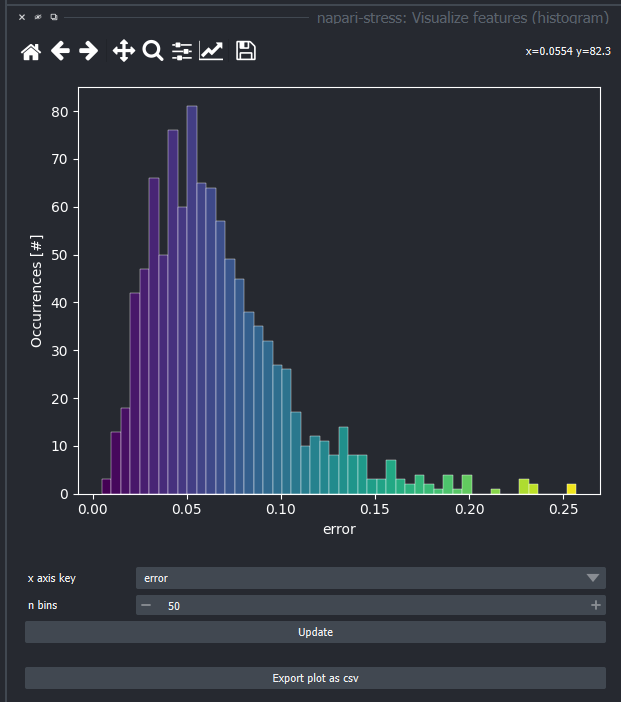
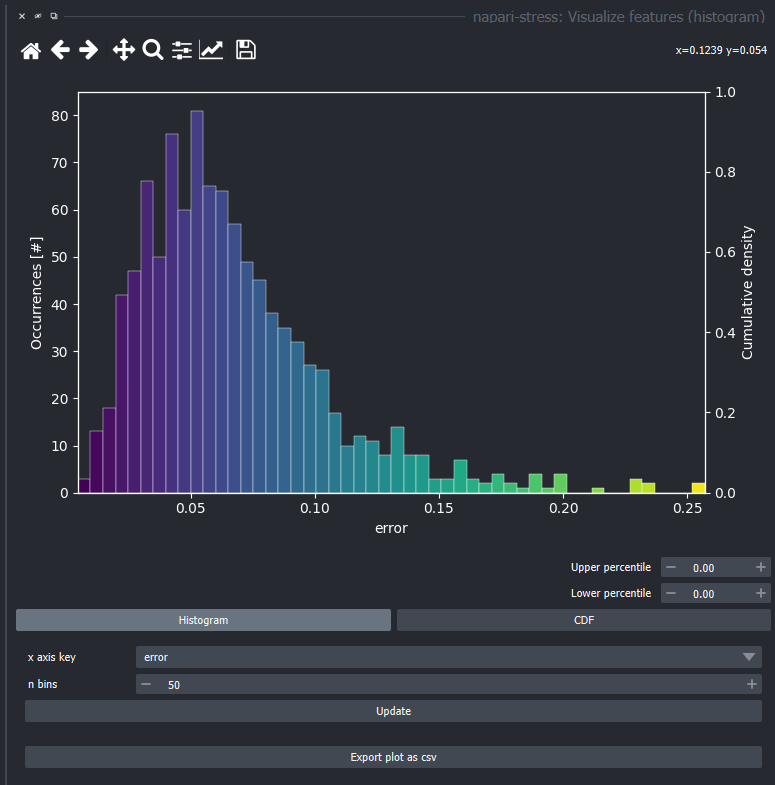
updated documentation

diff --git a/docs/tutorials/point_and_click/demo_visualize_features.md b/docs/tutorials/point_and_click/demo_visualize_features.md
@@ -23,9 +23,20 @@ Create a spherical harmonics expansion with `Tools > Points > Fit spherical harm
 
 ![](./imgs/demo_visualize_features2.png)
 
-In the dropdown, you'll see all available measurements for the selected layer - in this case, the feature to be visualized (the `x axis key`) is called `error` and corresponds to the fit residue of the spherical harmonics expansion. By changing the number of bins (`n bins`) and clicking on `Update` you can change the number of bins of the histogram and apply the changes:
+In the dropdown labelled `x axis key`, you'll see all available measurements for the selected layer - in this case, the feature to be visualized is called `error` and corresponds to the fit residue of the spherical harmonics expansion. By changing the number of bins (`n bins`) and clicking on `Update` you can change the number of bins of the histogram and apply the changes:
 
 ![](./imgs/demo_visualize_features3.png)
+
+You can additionally show the [cumulative distribution function ](https://en.wikipedia.org/wiki/Cumulative_distribution_function) (CDF) by clicking on the `CDF` button:
+
+![](./imgs/demo_visualize_features4.png)
+
+Lastly, to explore the histogram/CDF distributions interactively, you can select parts of the histogram by drawing a rectangular selection on the plot:
+
+![](./imgs/demo_visualize_features5.png)
+
+Note that the points pertaining to features in the respective range are highlighted in the viewer. You can also change the range of the selection by using the `Upper percentile` and `Lower percentile` spinboxes.
+
 
 To plot a different feature, select it from the dropdown and click `Update` to apply.
 
